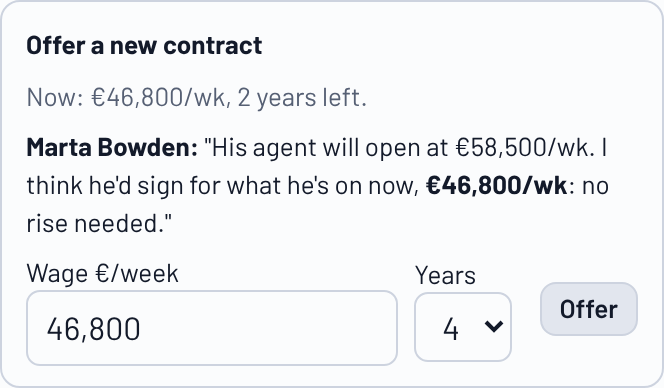
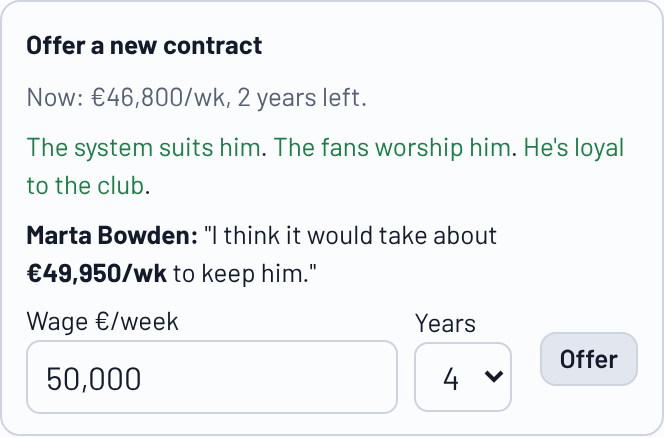
New-deal wages by loyalty: mercenaries up to 125% of the going rate, average about 95-105%, loyal as low as 75%
Claude-Session: https://claude.ai/code/session_017v2SwTJHySgE2XKkyXLJQe

diff --git a/js/market.js b/js/market.js
@@ -471,9 +471,10 @@ function stayMin(S, floor, m) {
 function renewTerms(p) {
   const c = my(), k = "R" + G.year; if (!p.rn || p.rn.k !== k || p.rn.m == null) p.rn = { k, tries: 0, n: normal(), m: clamp(normal(), -2, 2) * .03, off: false };
   const s = staffOf("recruit"), maxY = p.age >= 32 ? 2 : p.age >= 30 ? 3 : 5, S = stayScore(p);
-  // No pay cut mid-contract; and a new deal is paid near his worth: a loyal player who loves the club takes some way
-  // under his going rate (down to about 60%), a mercenary wants nearly all of it.
-  const worthF = clamp(.85 + (.5 - S.L) * .3 - S.love * .1, .6, .95);
+  // No pay cut mid-contract; and a new deal is paid by his loyalty: a mercenary wants up to a quarter over his going
+  // rate, an average player about the going rate (95-105%), a loyal one takes as little as 75% (a little less again
+  // if the fans love him, but never under 75%).
+  const worthF = clamp(1.25 - S.L * .5 - S.love * .05, .75, 1.25);
   const floor = Math.ceil(Math.max(p.yrs <= 1 ? p.wage * .9 : p.wage, S.dem * worthF) / 100) * 100;
   const min = stayMin(S, floor, p.rn.m), read = s ? clamp(s.at.neg / 100, 0, 1) : 0;
   // Her read of his mood: a good negotiator sees most of it, a poor one guesses.

diff --git a/sw.js b/sw.js
@@ -1,6 +1,6 @@
 /* Offline support. When online, the game's files come fresh from the network (and refresh the
    cache), so updates show straight away; when offline, the cached copy is used. Google Fonts are cached the first time they load. */
-const VERSION = "owner-0.82.0";
+const VERSION = "owner-0.82.1";
 const FILES = ["./", "index.html", "app.css", "owner.css", "manifest.webmanifest", "icon.svg", "icon-192.png", "icon-512.png", "apple-touch-icon.png",
   "js/names.js","js/core.js","js/staff.js","js/club.js","js/weather.js","js/match.js","js/events.js","js/cups.js","js/owners.js","js/board.js","js/partners.js","js/legends.js","js/friendlies.js","js/europe.js","js/sale.js","js/season.js","js/market.js","js/appeal.js","js/ui.js","js/ui2.js","js/main.js"];
 const FONTS = "owner-fonts";

diff --git a/js/core.js b/js/core.js
@@ -2,7 +2,7 @@
    Everything here is plain data and logic (no DOM), so tools/sim.js can run whole careers in Node. */
 "use strict";
 
-const VERSION = "0.82.0";
+const VERSION = "0.82.1";
 let G = null;  // the saved game
 
 const P = id => G.players[id];
